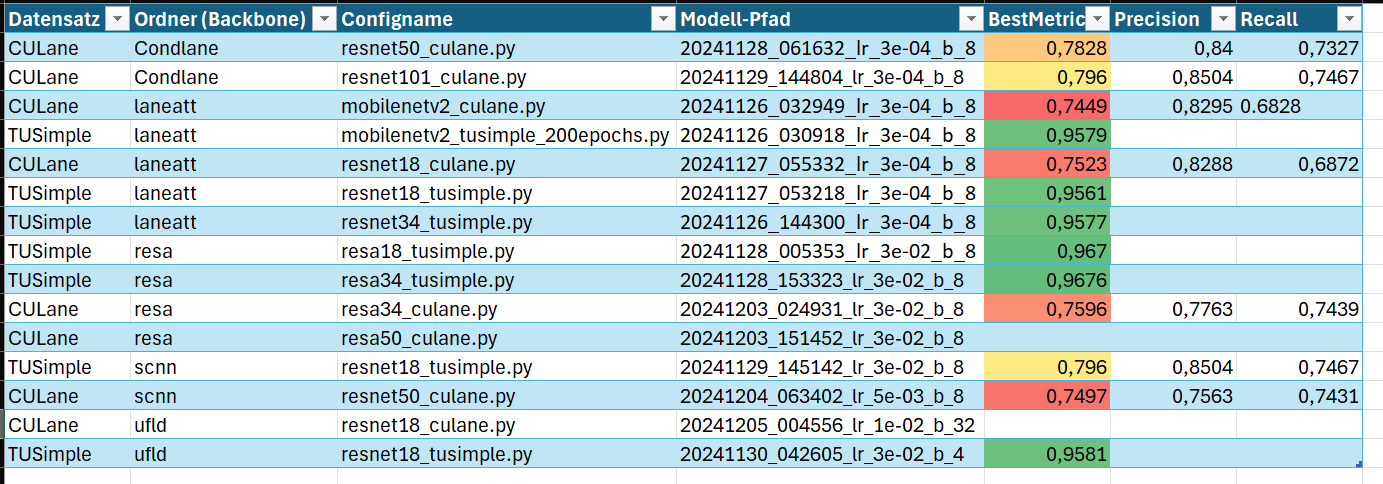
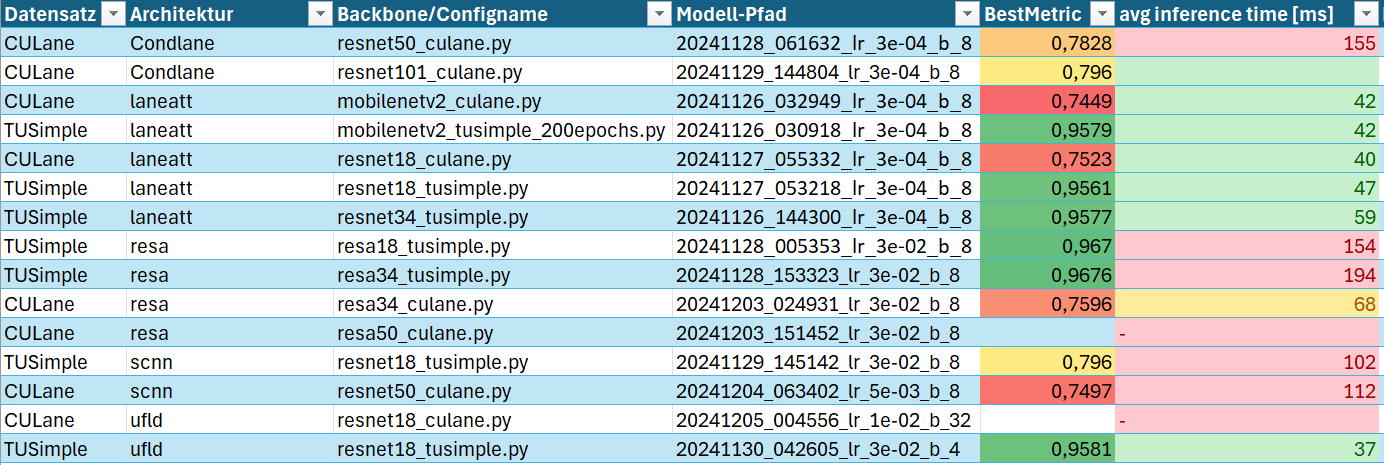
Update camera reference and improve performance analysis in documentation

diff --git a/doc/main.tex b/doc/main.tex
@@ -49,7 +49,7 @@
             Das Fahrzeug ist mit einem NVIDIA Jetson Orin Nano Developer Kit
             ausgestattet, welcher die Steuerung des Fahrzeugs übernimmt.
             Dabei kann das Fahrzeug sowohl im manuellen Modus per Tastatur gesteuert, als auch im autonomen Modus betrieben werden.
-            Zur Erkennung der Spur wird eine Kamera verwendet. %Todo Kamera-Name
+            Zur Erkennung der Spur wird die Intel® RealSense™ Depth Camera D435 verwendet.
             In der vorherigen Umsetzung wurde eine Kantendetektion verwendet, um die Spurmarkierungen zu erkennen.
             Mit Hilfe der Python-Bibliothek OpenCV wurden die Kanten der Spurmarkierungen wie folgt erkannt:
             Zunächst wurde das aufgenommene Farbbild mit der Methode \textit{cv2.cvtColor()} in Graustufen konvertiert, um anschließend mit \textit{cv2.GaussianBlur()} eine gaußsche Weichzeichnung durchzuführen, die das Ziel hatte Rauschen zu reduzieren und Details zu glätten. Im Anschluss sollten mit \textit{cv2.Canny()} Kanten identifiziert werden. Diese Methode arbeitet mit Ableitungen und nimmt an, dass Bereiche mit starken Änderungen Kanten entsprechen.
@@ -61,7 +61,7 @@
             Eine Deep-Learning-basierte Spurerkennung soll diese Probleme beheben und eine zuverlässige Spurerkennung auch unter schwierigen Bedingungen ermöglichen.
 
  
-            % Todo am besten quantifizieren
+            % Todo am besten quantifizieren --> Mars Bild von altem System vs neuem System
 
         \subsection{Aufgabenstellung}
             % siehe OneNote
@@ -80,6 +80,8 @@
             Anfängliche Probleme von Paketabhängigkeiten und Versionskonflikten konnten aufgelöst werden. 
             %Todo: landeDet auf HTWG Git schieben
             % ToDo: genaue Versionen pyTorch/cuda etc
+
+            %Todo: @Mars Was haben wir alles probiert bis Pytorch Cude etc. richtig installiert waren?
             Alle Änderungen können in der GIT-History nachvollzogen werden und über ergänzte Installationsskripte reproduziert werden, sodass das Projekt auch nach Abschluss des Teamprojekts weitergeführt werden kann. Letzter Stand: 15.01.2025. %Todo: Datum
             Zur Installation auf WorkingStations und Jetson können die Skripte \textit{scripts\textbackslash install\_workstation.sh} und \textit{scripts\textbackslash install\_jetson.sh} wie in der \textit{Read.me} beschrieben verwendet werden.
 
@@ -109,7 +111,6 @@
                     \label{fig:Laborbedingungen}
                 \end{figure}
 
-            %Todo: Links einfügen
             % ToDo: Beschreiben wie entpackt werden muss
 
             \subsubsection{Backbone}
@@ -162,12 +163,15 @@
 
             % Todo Performance in Bildern/Excel zeigen
             
-            Erste Tests auf dem Jetson Nano zeigten jedoch, dass die Modelle nicht in Echtzeit betrieben werden konnten. Eine verarbeitszeit von etwa 20 Sekunden pro Bild war zu langsam.
+            Erste Tests auf dem Jetson Nano zeigten jedoch, dass die Modelle nicht in Echtzeit betrieben werden konnten. Eine verarbeitszeit von etwa 20 Sekunden pro Bild war deutlich zu langsam.
+            In der Analyse wurde festgestellt, dass die größte Bottleneck im versenden der Bilder in der ROS-Version lag. In der Version Foxy gab es bekannte Performance Probleme wie dieser Issue zeigt: \url{https://github.com/ros2/rclpy/issues/763}.
+            In neuen Tests mit ROS2 Humble und einer präziseren Messung der Interferenz-Zeit lag die Verarbeitungszeit bei etwa einer Sekunde pro Bild, was immernoch zu langsam war.
             Um dieses Problem zu lösen wurde versucht das Modell zu quantisieren, was jedoch nicht zum Erfolg führte.
-            Eine Konvertierung in das ONNX-Format, konnte zwar durchgeführt werden, jedoch wurden keine Linien mit der konvertierten Variante erkannt.
+            Eine Konvertierung in das ONNX-Format, konnte zwar durchgeführt werden, erkannte das konvertierte Modell keine Spurmarkierungen mehr.
             %Todo mehr ausführen @Mars?
             Nach anschaffung eines neuen Jetson Nano konnte die Performance des Modells auf dem Jetson Nano deutlich verbessert werden, sodass keine weitere Anpassung mehr nötig waren.
-            %Todo: Performance auf neuem Jetson einfügen was für zeiten haben wir hier?
+            Auf diesem Jetson läuft nach letztem Stand ROS2 in der Version IRON und erzielt die in \ref{fig:Modell_Auswertung} gezeigten Interferenz-Zeiten.
+
         \subsection{Steuerung}
             % alte Steuerung
             % Projekt während Autonomes Fahren
